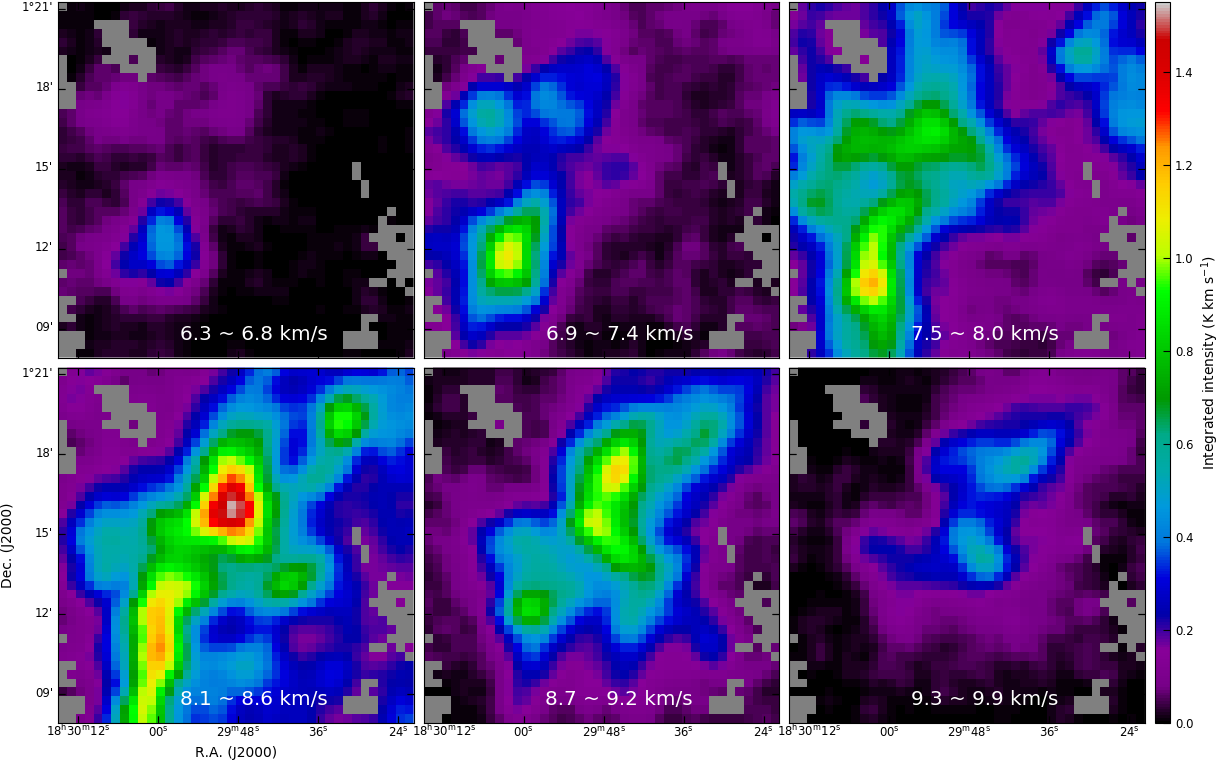
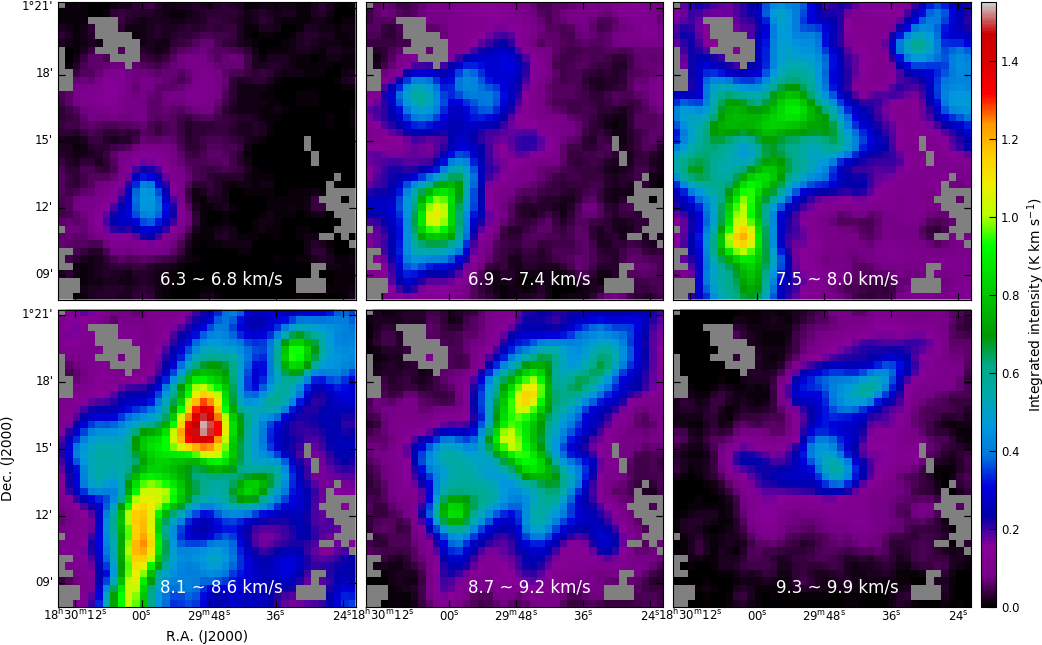
bug fix full_line_scan

diff --git a/funstools/plots.py b/funstools/plots.py
@@ -116,6 +116,7 @@ def full_line_scan(loc='', vr=None, yi=1.5, cut=None, smo=None, ver='otfpro'):
     lsmap.set_xlabel('R.A.')
     lsmap.set_ylabel('Dec.')
     lsmap.imshow(imap, origin='lower', vmin=0, cmap='inferno')
+    cp = lsmap.scatter(-100, -100, s=60, color='lime')
     lsmap.set_xlim(rcut[0]-0.5, rcut[1]-0.5)
     lsmap.set_ylim(dcut[0]-0.5, dcut[1]-0.5)
     # line plot
@@ -153,6 +154,7 @@ def full_line_scan(loc='', vr=None, yi=1.5, cut=None, smo=None, ver='otfpro'):
             # lslin.plot([x[0], x[-1]], [3*ld.rms[d, r]+li*yi, 3*ld.rms[d, r]+li*yi], ls='dotted', lw=1, alpha=0.5, color='blue')
             # lslin.step(x, l0.sdata[:, d, r], color='blue', lw=1, alpha=0.6)
             if (0 <= r < ld.nr) and (0 <= d < ld.nd):
+                cp.set_offsets([r-1, d-1])
                 if lnam[li] == 'N2HP':
                     lslin.step(ld.x+8., ld.data[:, d, r]+li*yi, color='red', lw=1)
                 elif lnam[li] == '13CO':

diff --git a/setup.py b/setup.py
@@ -5,7 +5,7 @@ with open("README.md", "r") as fh:
 
 setup(
     name="funstools",  # Replace with your own username
-    version="0.0.13",
+    version="0.0.14",
     author="Shinyoung Kim",
     author_email="radioshiny@gmail.com",
     description="FUNStools is python toolkit for FUNS project",

diff --git a/README.md b/README.md
@@ -97,15 +97,7 @@ fig.savefig('moment0.pdf')
 cube.moment1(cr=[ch1, ch2])
 
 # Return the most recently computed moment 1 map
-# If there is not pre-computed moment 1 map,
-#    return the moment 0 map with cr=[rmssize, -rmssize]
 cube.m1
-
-# Make figure
-fig = plt.figure()
-ax = fig.add_subplot(111, projection=cube.wcs2d)
-ax.imshow(cube.m1, origin='lower', vmin=cube.x[ch1], vmax=cube.x[ch2])
-fig.savefig('moment1.pdf')
 ```
 
 #### Moment 2 (velocity dispersion)
@@ -114,24 +106,12 @@ fig.savefig('moment1.pdf')
 
 ![equation](https://latex.codecogs.com/svg.latex?M_2=\sqrt{\frac{\sum&space;I_i\left(v_i-M_1\right)^2}{M_0}})
 
-In line equation test 
-![equation](https://render.githubusercontent.com/render/math?math=M_2=\sqrt{\frac{\sum&space;I_i\left(v_i-M_1\right)^2}{M_0}})
-in line equation test
-
 ```python
 # Using channel range
 cube.moment2(cr=[ch1, ch2])
 
 # Return the most recently computed moment 2 map
-# If there is not pre-computed moment 2 map,
-#    return the moment 0 map with cr=[rmssize, -rmssize]
 cube.m2
-
-# Make figure
-fig = plt.figure()
-ax = fig.add_subplot(111, projection=cube.wcs2d)
-ax.imshow(cube.m2, origin='lower', vmin=0.1, vmax=0.5)
-fig.savefig('moment1.pdf')
 ```
 
 #### Example script for `Cube2map.moment#()`
@@ -152,7 +132,7 @@ cube = Cube2map('/.../TRAO-FUNS/SerB/release/SerB_C18O_v10_match_cube.fits',
 xyr = float(cube.nr/cube.nd)
 
 # draw figure using Multiaxes
-mx = Multiaxes(2, 3, 1, xyr, 0.36, 0.56, cb=0.1, clab=0.34, proj=cube.wcs2d)
+mx = Multiaxes(2, 3, 1, xyr, 0.36, 0.56, cb=0.1, clab=0.34, scale=0.7, proj=cube.wcs2d)
 mx.shareaxes((False, True), 0.1)
 fig, ax, cax = mx.drawfig()
 
@@ -190,7 +170,7 @@ fig.savefig('images/SerB_C18O_moment_maps.png')
 
 ### Channel maps
 
-`Cube2map.chmap()` return the channel maps and their label of velocity range.
+`Cube2map.chmap()` return the channel maps and labels for their velocity ranges.
 
 ```python
 # Using velocity range
@@ -215,7 +195,7 @@ cube = Cube2map('/.../TRAO-FUNS/SerB/release/SerB_C18O_v10_match_cube.fits',
                 rmssize=rs, velocity_smo=2, spatial_smo=2)
 
 # draw figure using Multiaxes
-mx = Multiaxes(2, 3, 2, 1, 0.36, 0.56, margin=(0.02, 0.02, 0.71, 0.02), proj=cube.wcs2d)
+mx = Multiaxes(2, 3, 2, 1, 0.36, 0.56, margin=(0.02, 0.02, 0.71, 0.02), scale=0.7, proj=cube.wcs2d)
 mx.shareaxes((True, True), 0.1)
 fig, ax, _ = mx.drawfig()
 cax = mx.sharecolorbar('right', 0.15, 0.1)
@@ -233,7 +213,7 @@ for i in range(6):
     iax.set_xlim(26.5, 66.5)
     iax.set_ylim(163.5, 203.5)
     iax.annotate(labels[i]+' km/s', xy=(0.55, 0.05), xycoords='axes fraction', 
-                 ha='center', va='baseline', color='white', fontsize='x-large')
+                 ha='center', va='baseline', color='white', fontsize='large')
     if i == 3:
         iax.coords[0].set_axislabel('R.A. (J2000)')
         iax.coords[1].set_axislabel('Dec. (J2000)')
@@ -251,7 +231,30 @@ fig.savefig('images/SerB_C18O_channel_maps.png')
 
 ### Line scanning
 
-(in preparation)
+`Cube2map.line_scan()` is the viewer of line profiles for 3 by 3 pixels.
+
+Since the `onclick` event is activated, you can move a location by clicking a
+pixel on the left intensity map or clicking the direction you want to go on the
+right line profile map.
+
+```python
+# set the velocity range (x-axis range of plot)
+cube.line_scan(vr=(5.5, 11.))
+```
+
+![example](./images/SerB_C18O_line_scan.png)
+
+### Full line set scanning
+
+`full_line_scan()` is the viewer of line profiles for full line sets of TRAO-FUNS.
+
+```python
+from funstools import full_line_scan
+
+loc = '/.../TRAO-FUNS/SerB/release/'
+full_line_scan(loc, vr=)
+
+``` 
 
 ### Gaussian decomposing
 
